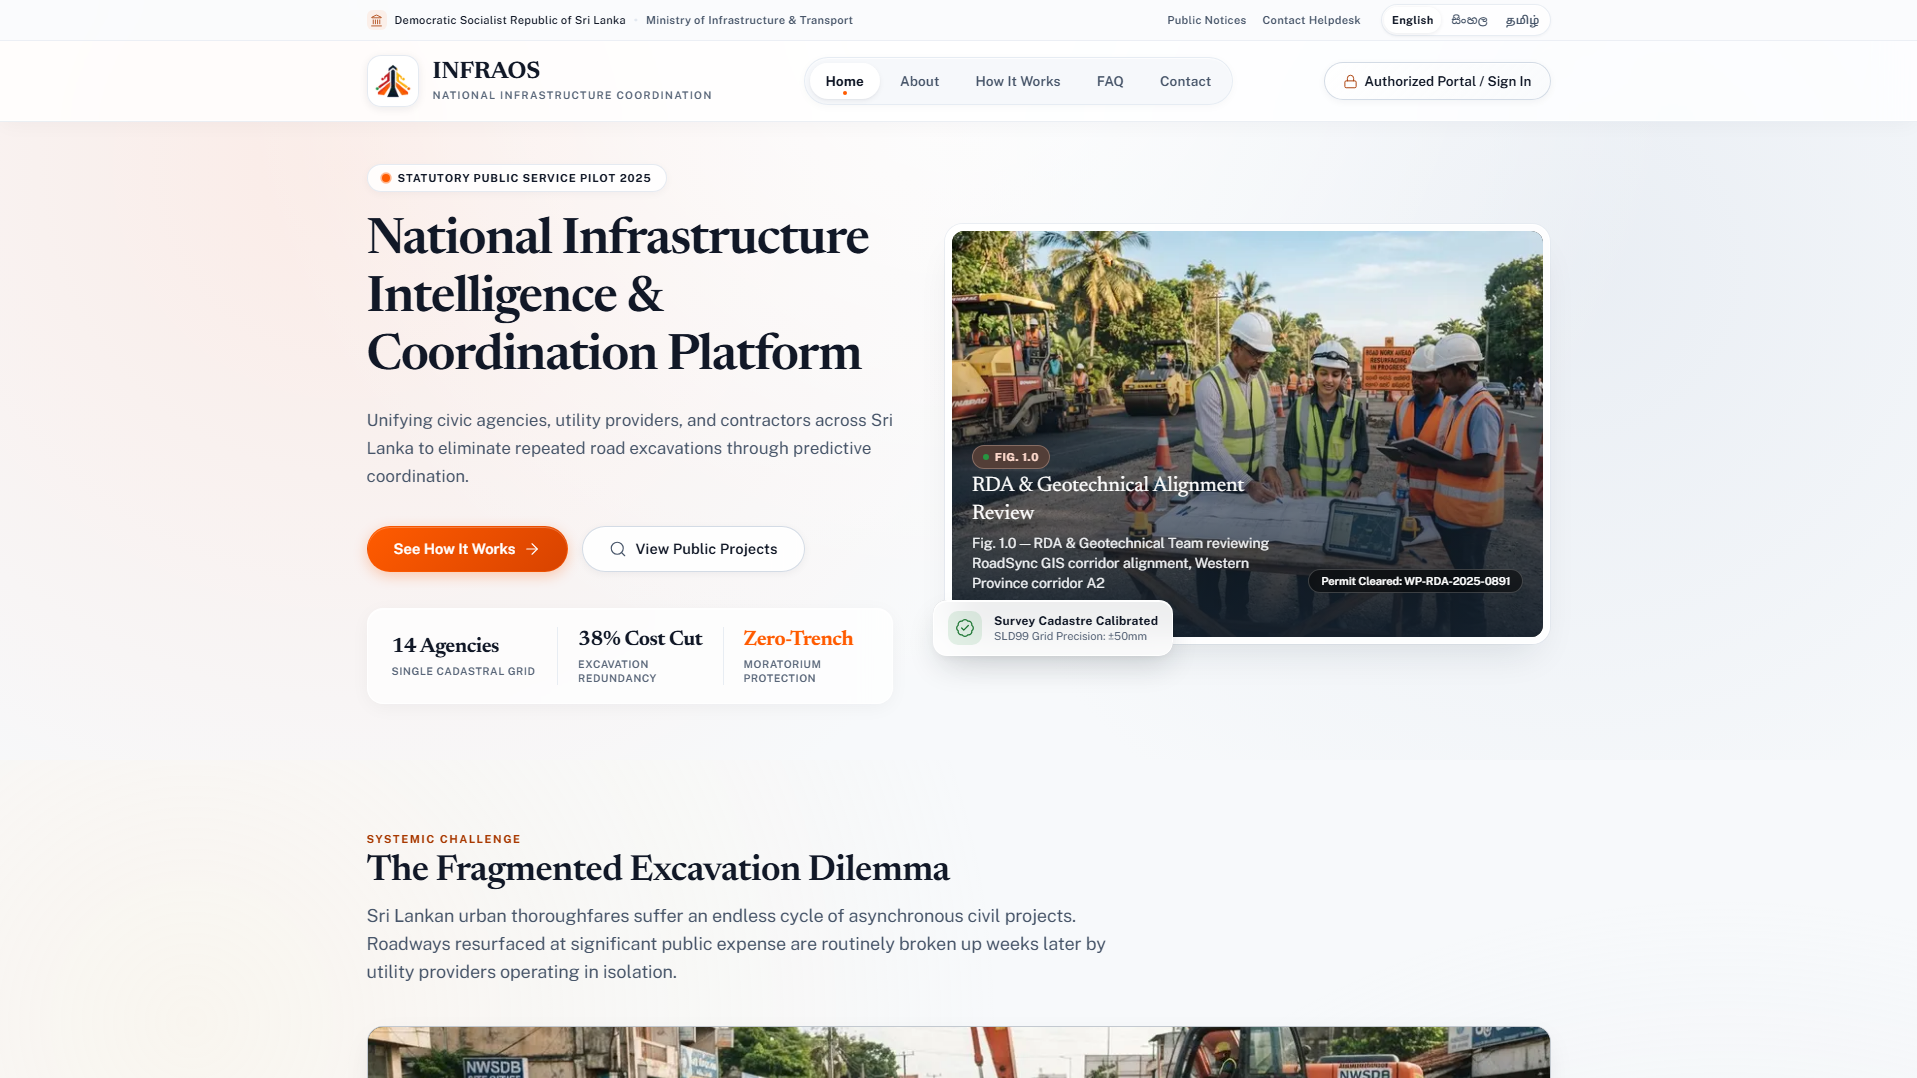
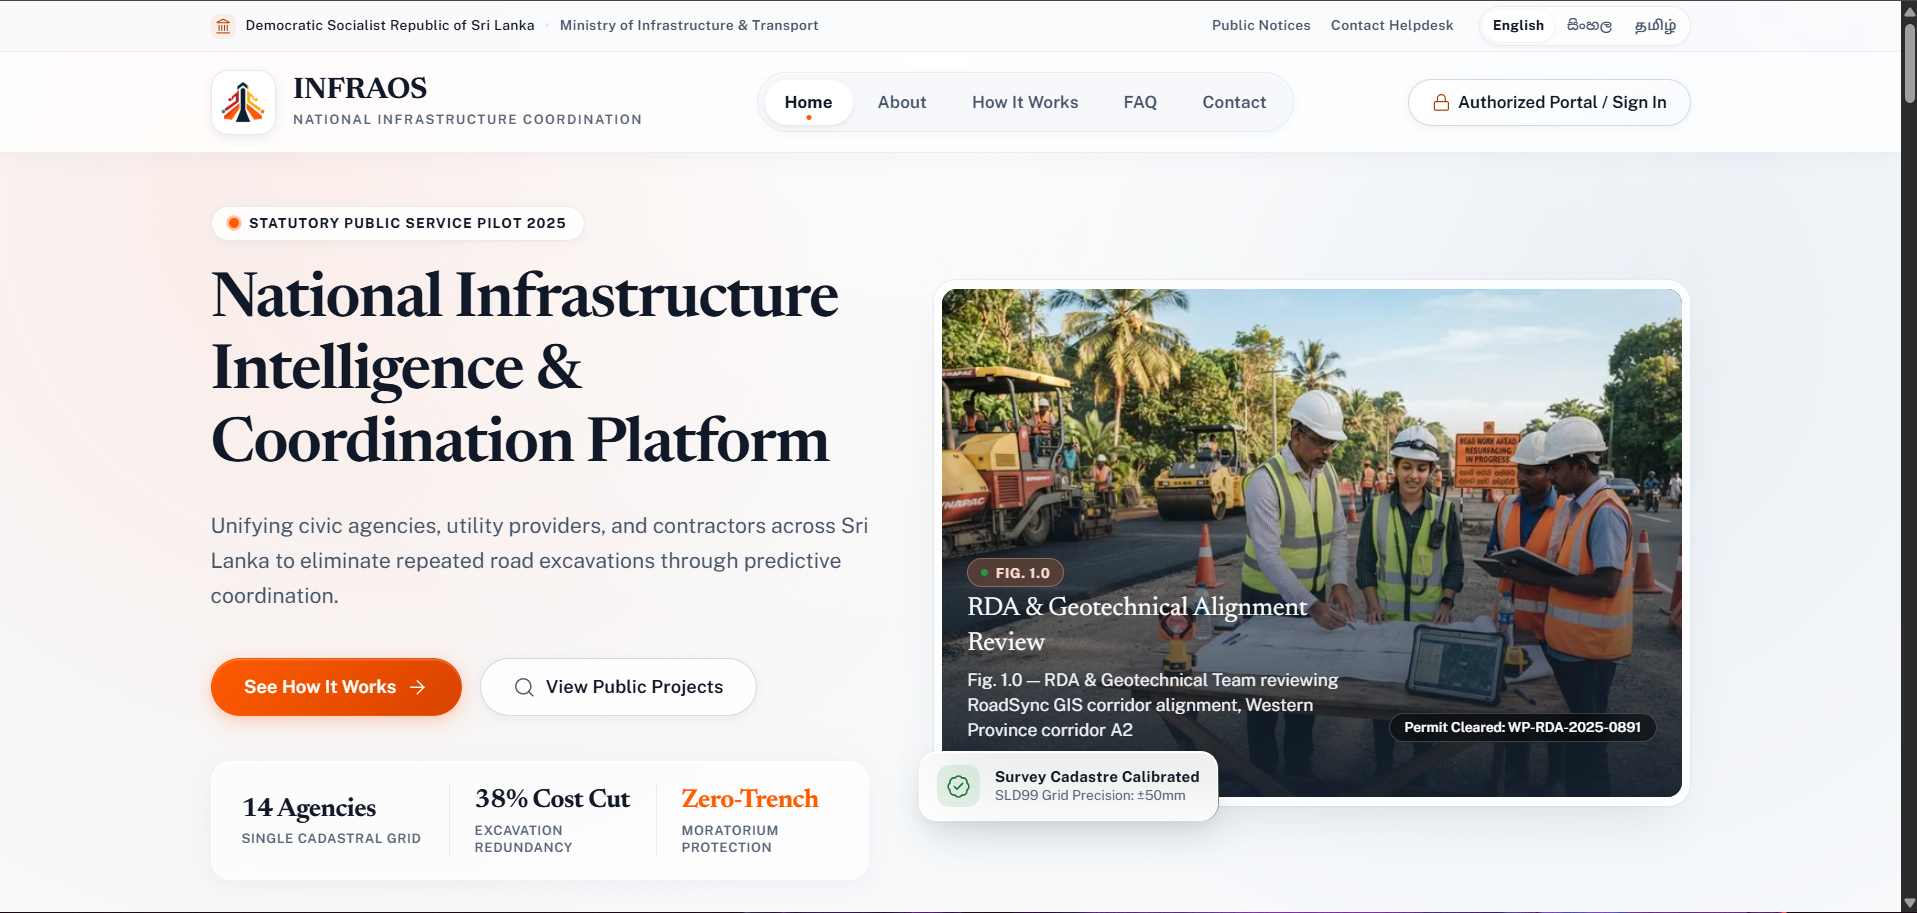
docs(readme): add AI Risk Intelligence and Citizen Portal screenshots to visual showcase

diff --git a/README.md b/README.md
@@ -123,6 +123,11 @@ Core design tenets:
 | <a href="docs/Screen/18-assets-register.png"><img src="docs/Screen/18-assets-register.png" alt="Assets Register" width="460" /></a> | <a href="docs/Screen/25-admin-users.png"><img src="docs/Screen/25-admin-users.png" alt="Admin Users" width="460" /></a> |
 | *Asset lifecycle records, condition assessments, and maintenance requests* | *Role-based access control, pending approvals, and immutable audit logs* |
 
+| AI Risk & Predictive Intelligence | Citizen Infrastructure Portal |
+|:---:|:---:|
+| <a href="docs/Screen/04-ai-risk-project-intelligence.png"><img src="docs/Screen/04-ai-risk-project-intelligence.png" alt="AI Risk Intelligence" width="460" /></a> | <a href="docs/Screen/07-citizen-infrastructure-portal.png"><img src="docs/Screen/07-citizen-infrastructure-portal.png" alt="Citizen Infrastructure Portal" width="460" /></a> |
+| *Predictive project risk assessment, delay factors, and AI mitigation insights* | *Public citizen grievance redressal, geospatial issue logging, and status tracking* |
+
 </div>
 
 ---
